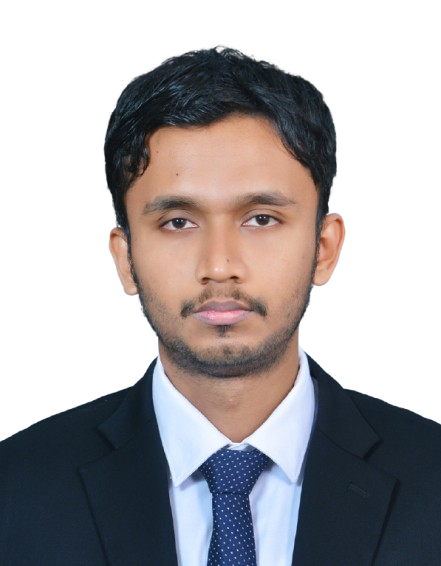
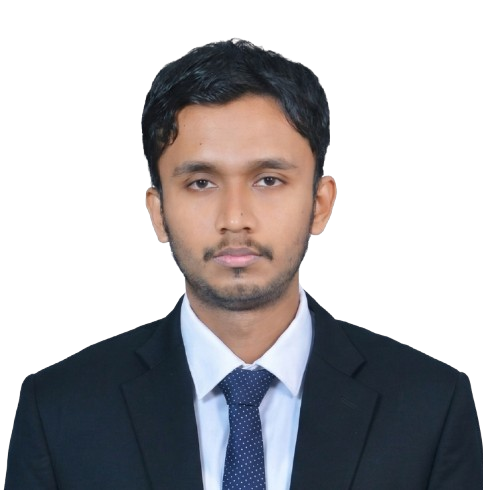
feat: Add Dr. Hiran Chathuranga committee image, update two other committee images, and comment out sponsor and university gallery text sections.

diff --git a/src/components/homepage/uniGallery.tsx b/src/components/homepage/uniGallery.tsx
@@ -19,14 +19,14 @@ const GridTile: React.FC<{
     <div className="absolute inset-0 bg-linear-to-t from-black/80 via-black/20 to-transparent opacity-60 transition-opacity duration-300 group-hover:opacity-80" />
 
     {/* Text Content - slides up slightly on hover */}
-    <div className="absolute bottom-0 left-0 p-6 translate-y-2 transform transition-transform duration-300 group-hover:translate-y-0">
+    {/* <div className="absolute bottom-0 left-0 p-6 translate-y-2 transform transition-transform duration-300 group-hover:translate-y-0">
       {category && (
         <span className="mb-2 block text-xs font-bold uppercase tracking-wider text-primary-500 opacity-0 transition-opacity duration-300 delay-100 group-hover:opacity-100">
           {category}
         </span>
       )}
       <h3 className="text-xl font-bold text-white para">{title}</h3>
-    </div>
+    </div> */}
   </div>
 );
 

diff --git a/src/components/homepage/organizer.tsx b/src/components/homepage/organizer.tsx
@@ -88,7 +88,7 @@ const OrganizerSection = () => {
           ))}
         </div>
 
-        <div className="mt-32">
+        {/* <div className="mt-32">
           <SectionHeader headerText="Gold Sponsors" />
         </div>
         <div className="grid grid-cols-1 md:grid-cols-2 lg:grid-cols-3 gap-8 mt-10">
@@ -100,7 +100,7 @@ const OrganizerSection = () => {
               </div>
             </div>
           ))}
-        </div>
+        </div> */}
       </div>
     </section>
   );
